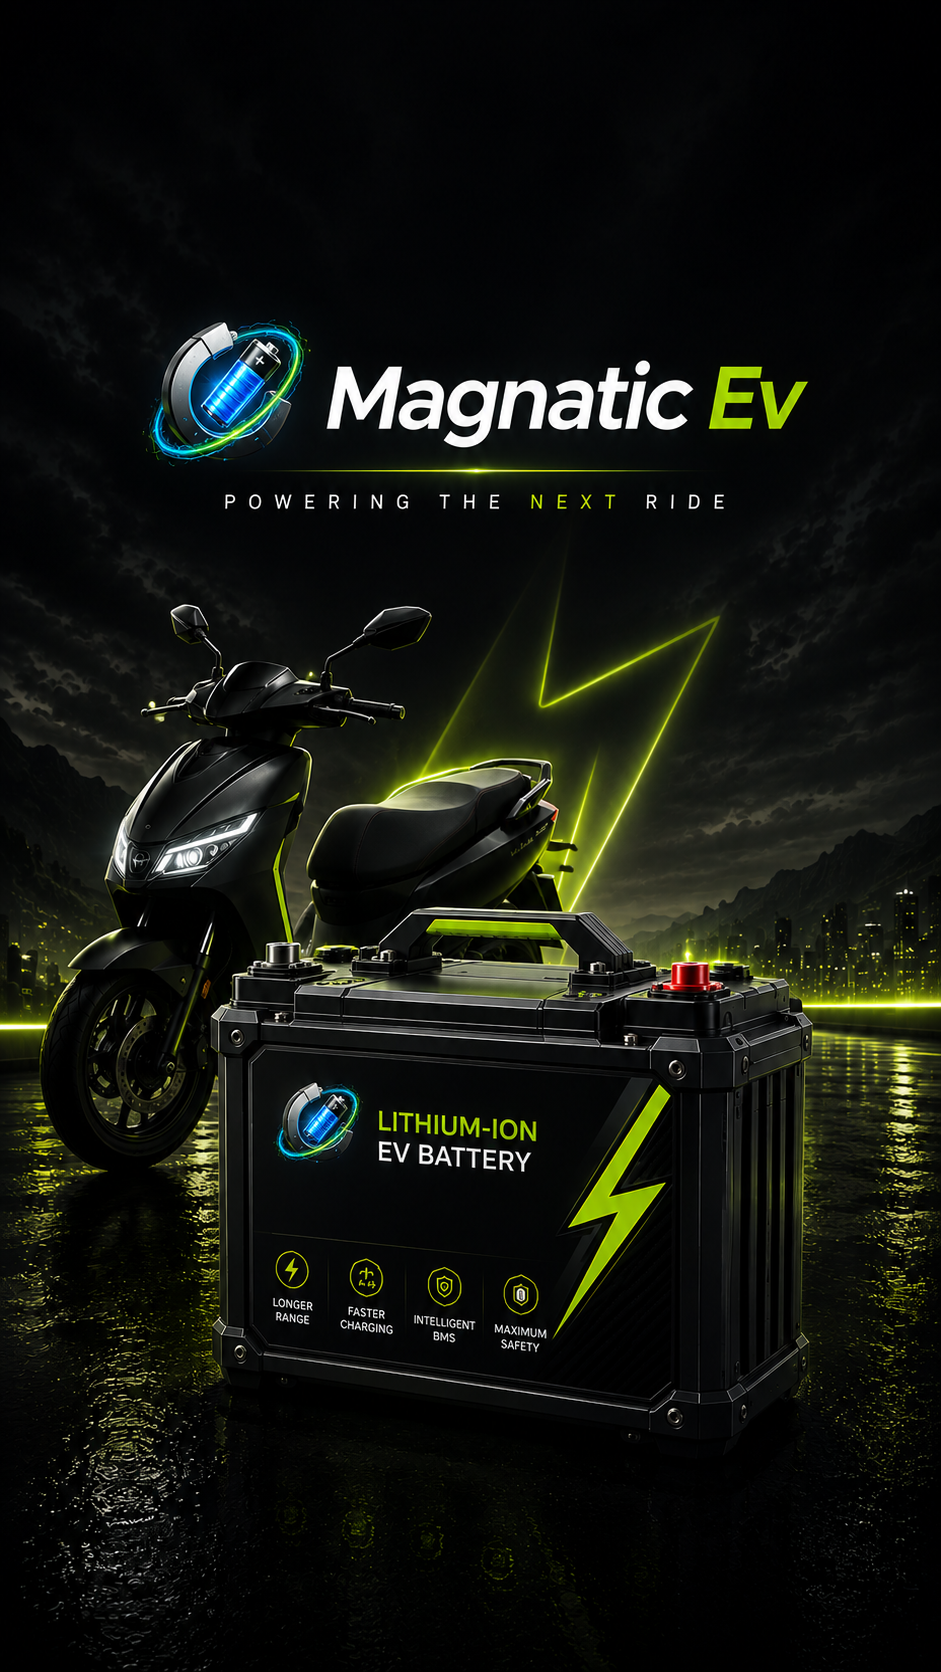
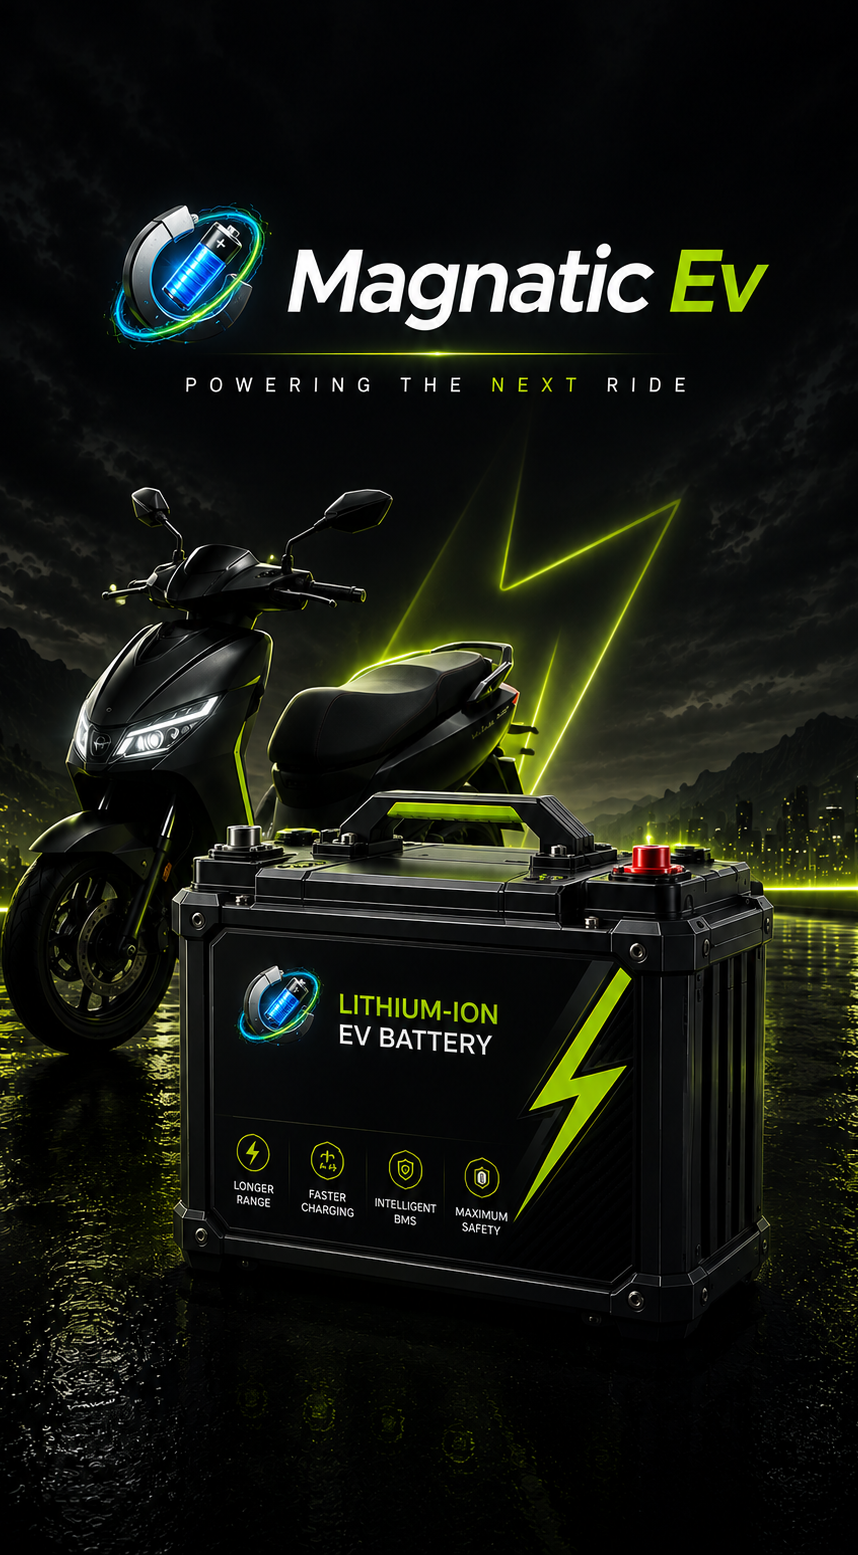
feat: implement interactive home page with hero section and product catalog display

diff --git a/resources/views/home.blade.php b/resources/views/home.blade.php
@@ -5,10 +5,10 @@
         {{-- ============================================================
          SCENE 01 — HERO
          ============================================================ --}}
-    <section id="scene-hero" class="scene-container bg-black relative">
+    <section id="scene-hero" class="w-full h-[100svh] bg-black relative overflow-hidden flex items-center justify-center">
         <div class="absolute inset-0 z-0">
-            <img src="/images/banner_mobile.png" class="block md:hidden w-full h-full object-cover" id="hero-battery-img-mobile" alt="Magnatic EV">
-            <img src="/images/banner_desktop.png" class="hidden md:block w-full h-full object-cover" id="hero-battery-img-desktop" alt="Magnatic EV">
+            <img src="/images/banner_mobile.png" class="block md:hidden w-full h-full object-fill" id="hero-battery-img-mobile" alt="Magnatic EV">
+            <img src="/images/banner_desktop.png" class="hidden md:block w-full h-full object-fill" id="hero-battery-img-desktop" alt="Magnatic EV">
         </div>
 
         <div class="absolute bottom-8 left-1/2 -translate-x-1/2 flex flex-col items-center z-30 pointer-events-none">
@@ -23,8 +23,7 @@
     <div id="range-sequence-wrapper" class="relative bg-black border-t border-white/5" style="height: 300vh;">
         <section class="sticky top-0 w-full h-screen overflow-hidden flex flex-col items-center justify-center bg-black">
             <div class="absolute top-20 md:top-24 z-20 text-center px-4">
-                <p class="text-brand-500 text-[10px] font-bold uppercase tracking-[0.4em] mb-2 fade-up">Performance</p>
-                <h2 class="text-3xl md:text-5xl font-black text-white tracking-tighter fade-up">GO FARTHER.</h2>
+                <!-- Text removed as requested -->
             </div>
 
             {{-- Road --}}
@@ -76,7 +75,7 @@
         @foreach($products as $product)
         <section class="sticky top-0 h-[100svh] w-full flex items-center bg-black overflow-hidden border-t border-white/5">
             
-            <div class="w-full max-w-7xl mx-auto px-6 lg:px-12 flex flex-col-reverse md:flex-row items-center justify-between gap-8 md:gap-16 relative z-10 h-full py-16 md:py-0">
+            <div class="w-full max-w-7xl mx-auto px-6 lg:px-12 flex flex-col-reverse {{ $loop->odd ? 'md:flex-row-reverse' : 'md:flex-row' }} items-center justify-between gap-8 md:gap-16 relative z-10 h-full py-16 md:py-0">
                 
                 {{-- Text Content --}}
                 <div class="w-full md:w-1/2 flex flex-col justify-center text-center md:text-left h-1/2 md:h-full pb-8 md:pb-0">
@@ -88,7 +87,9 @@
                         @endif
                     </div>
                     
-                    <h3 class="text-3xl md:text-4xl lg:text-5xl font-black text-white tracking-tighter mb-4 uppercase">{{ $product->name }}</h3>
+                    <a href="{{ route('products.show', $product->slug) }}" class="block group">
+                        <h3 class="text-3xl md:text-4xl lg:text-5xl font-black text-white tracking-tighter mb-4 uppercase group-hover:text-brand-500 transition-colors duration-300">{{ $product->name }}</h3>
+                    </a>
                     <p class="text-white/40 text-sm leading-relaxed max-w-md mx-auto md:mx-0 mb-6">{{ $product->short_description }}</p>
                     
                     {{-- Specs Grid --}}
@@ -124,7 +125,9 @@
                     </div>
 
                     @if($product->images->count() > 0)
-                        <img src="{{ Storage::url($product->images->first()->image_path) }}" alt="{{ $product->name }}" class="w-[85%] h-[85%] object-contain relative z-10 drop-shadow-[0_20px_50px_rgba(0,0,0,0.8)]">
+                        <a href="{{ route('products.show', $product->slug) }}" class="relative z-10 w-[85%] h-[85%] flex items-center justify-center cursor-pointer hover:scale-105 transition-transform duration-500">
+                            <img src="{{ Storage::url($product->images->first()->image_path) }}" alt="{{ $product->name }}" class="w-full h-full object-contain drop-shadow-[0_20px_50px_rgba(0,0,0,0.8)]">
+                        </a>
                     @else
                         <div class="text-white/10 uppercase tracking-[0.4em] text-[10px] font-bold relative z-10">No Image Available</div>
                     @endif
